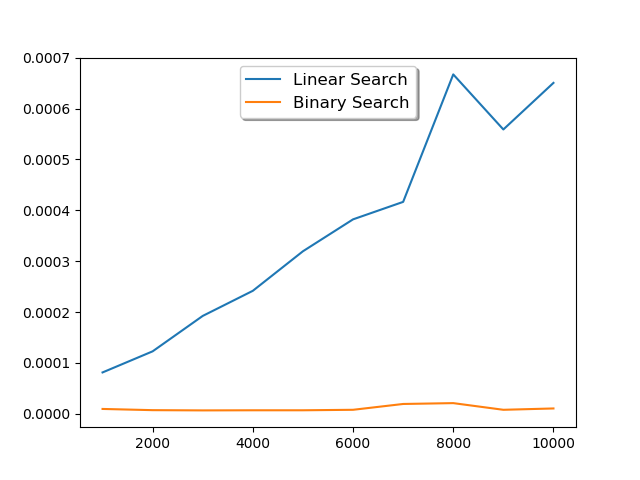
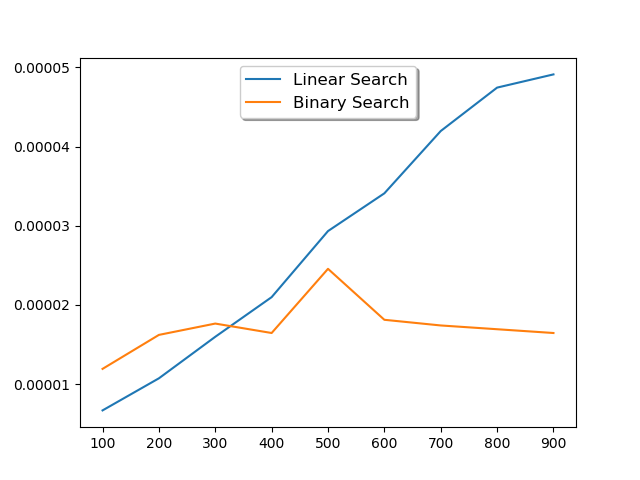
Class Doing

diff --git a/AlgorithmLab_CE III_(26) _Lab1/TestCaseImplementation.py b/AlgorithmLab_CE III_(26) _Lab1/TestCaseImplementation.py
@@ -10,7 +10,6 @@ class SearchTestcase(unittest.TestCase):
     def test_BinarySearch(self):
 
         A = [0,1,2,3,4,5]
-        A = list(range(6))
 
         #Tests for element which are on the list
         self.assertEqual(BinarySearch(A, 0), 0)
@@ -25,15 +24,14 @@ class SearchTestcase(unittest.TestCase):
     def test_LinearSearch(self):
 
         A = [0,1,2,3,4,5]
-        A = list(range(6))
 
         #Tests for element which are on the list
-        self.assertEqual(LinearSearch(A, 0), 0)
+        self.assertEqual(LinearSearch(A, 0), 1)
         self.assertEqual(LinearSearch(A, 1), 1)
-        self.assertEqual(LinearSearch(A, 2), 2)
-        self.assertEqual(LinearSearch(A, 3), 3)
-        self.assertEqual(LinearSearch(A, 4), 4)
-        self.assertEqual(LinearSearch(A, 5), 5)
+        self.assertEqual(LinearSearch(A, 2), 1)
+        self.assertEqual(LinearSearch(A, 3), 1)
+        self.assertEqual(LinearSearch(A, 4), 1)
+        self.assertEqual(LinearSearch(A, 5), 1)
 
 
         #Tests for element that are not on the list

diff --git a/AlgorithmLab_CE III_(26) _Lab1/SearchTimeAndPlot.py b/AlgorithmLab_CE III_(26) _Lab1/SearchTimeAndPlot.py
@@ -4,14 +4,14 @@ import random
 from time import time
 import matplotlib.pyplot as plt
 
-n = 1000
+n = 100
 i = 0
 timeLinear = []
 timeBinary = []
 sizeArray = []
 
 #Time calculations linear search
-for i in range(n, n * 11, n):
+for i in range(n, n * 10, n):
 	sizeArray.append(i)
 	randomvalues = random.sample(range(i), i)
 	startTime = time()
@@ -21,11 +21,11 @@ for i in range(n, n * 11, n):
 	timeLinear.append(totalTime)
 	print(totalTime, "for size", i)
 
-n = 1000
+n = 100000
 i = 0
 
 #Time Plotting for the binary search
-for i in range(n, n * 11, n):
+for i in range(n, n * 10, n):
 	randomvalues = random.sample(range(i),i)
 	startTime = time()
 	BinarySearch(randomvalues, randomvalues[i-1])

diff --git a/AlgorithmLab_CE III_(26) _Lab1/BinarySearch.py b/AlgorithmLab_CE III_(26) _Lab1/BinarySearch.py
@@ -6,23 +6,20 @@
 def BinarySearch(arr,n):
     first = 0
     last = len(arr)-1
-    found = 0
+    found = -1
 
     while first<=last and found == -1:
         midpoint = (first + last)//2
         if arr[midpoint] == n:
             found = midpoint
-            break
         else:
             if n < arr[midpoint]:
                 last = midpoint-1
             else:
                 first = midpoint+1
 
-    if found != -1:
-        print("Yes")
-    else:
-        print("No")
+    return found
+
 
 #arr = list(map(int,input().split()))
 #arr = sorted(arr)

diff --git a/AlgorithmLab_CE III_(26) _Lab1/LinearSearch.py b/AlgorithmLab_CE III_(26) _Lab1/LinearSearch.py
@@ -7,17 +7,17 @@
 def LinearSearch(arr,n):
     for i in range(len(arr)):
         if arr[i] == n:
-            i = 1
+            found = 1
             break
         else:
-            i = 0
-    if i == 1:
-        print("Yes")
+            found = 0
+    if found == 1:
+        return 1
     else:
-        print("No")
+        return -1
 
 #arr = list(map(int,input().split()))
 
 #n = int(input("Enter the no. you want to search: "))
 
-#LinearSearch(arr,n)
+#print(LinearSearch(arr,5))
